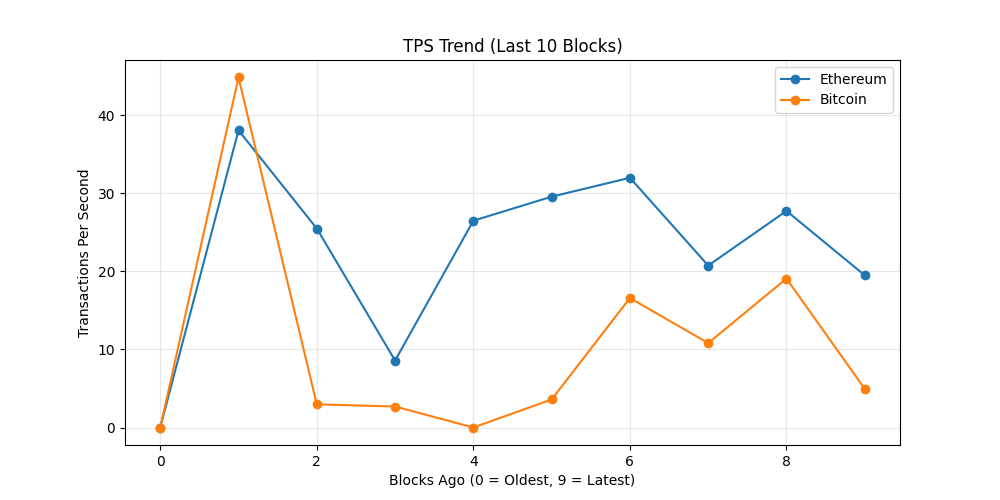
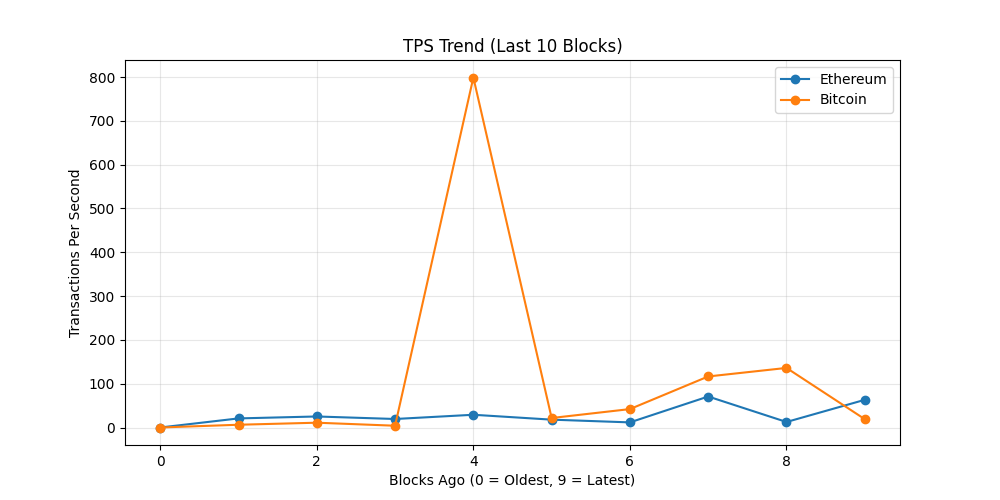
chore: update on-chain dashboard

diff --git a/README.md b/README.md
@@ -19,7 +19,7 @@ The README itself acts as the dashboard and is regenerated automatically on a 6 
 demonstrating a production-style, infrastructure-focused observability workflow rather
 than a traditional UI-driven approach.
 
-_Last updated: 2026-06-12 15:37 UTC_
+_Last updated: 2026-06-12 20:24 UTC_
 
 ## API Usage (GetBlock.io)
 - Calls used: **24**
@@ -27,8 +27,8 @@ _Last updated: 2026-06-12 15:37 UTC_
 ## Network Metrics
 | Chain | Block Height | TX Count | TPS (10 blk avg) | Block Util | Avg Fee |
 |------|-------------|----------|------------------|------------|---------|
-| Ethereum | 25302324 | 234 | 19.5 | 26.15% | 0.6 Gwei |
-| Bitcoin | 953389 | 3778 | 4.95 | 99.8% | N/A |
+| Ethereum | 25303756 | 758 | 63.17 | 76.14% | 0.1 Gwei |
+| Bitcoin | 953417 | 4953 | 19.05 | 99.79% | N/A |
 
 ## Visuals
 ### Transactions Trend
@@ -43,11 +43,9 @@ _Last updated: 2026-06-12 15:37 UTC_
 ## Whale Alerts (latest block)
 - Transaction hashes are truncated for readability.
 - Full hashes are available in `dashboards/metrics.json`
-- Bitcoin | 151.73 BTC | `bc7b09714f74…`
-- Bitcoin | 692.66 BTC | `abc25b450136…`
-- Bitcoin | 374.83 BTC | `8aa694481341…`
-- Bitcoin | 367.59 BTC | `2aa6e686a461…`
-- Bitcoin | 150.79 BTC | `465df35ae665…`
+- Bitcoin | 362.49 BTC | `b5f092c3218d…`
+- Bitcoin | 200.88 BTC | `6587a2054571…`
+- Bitcoin | 342.41 BTC | `204e5b61eb75…`
 
 ## Run locally
 
